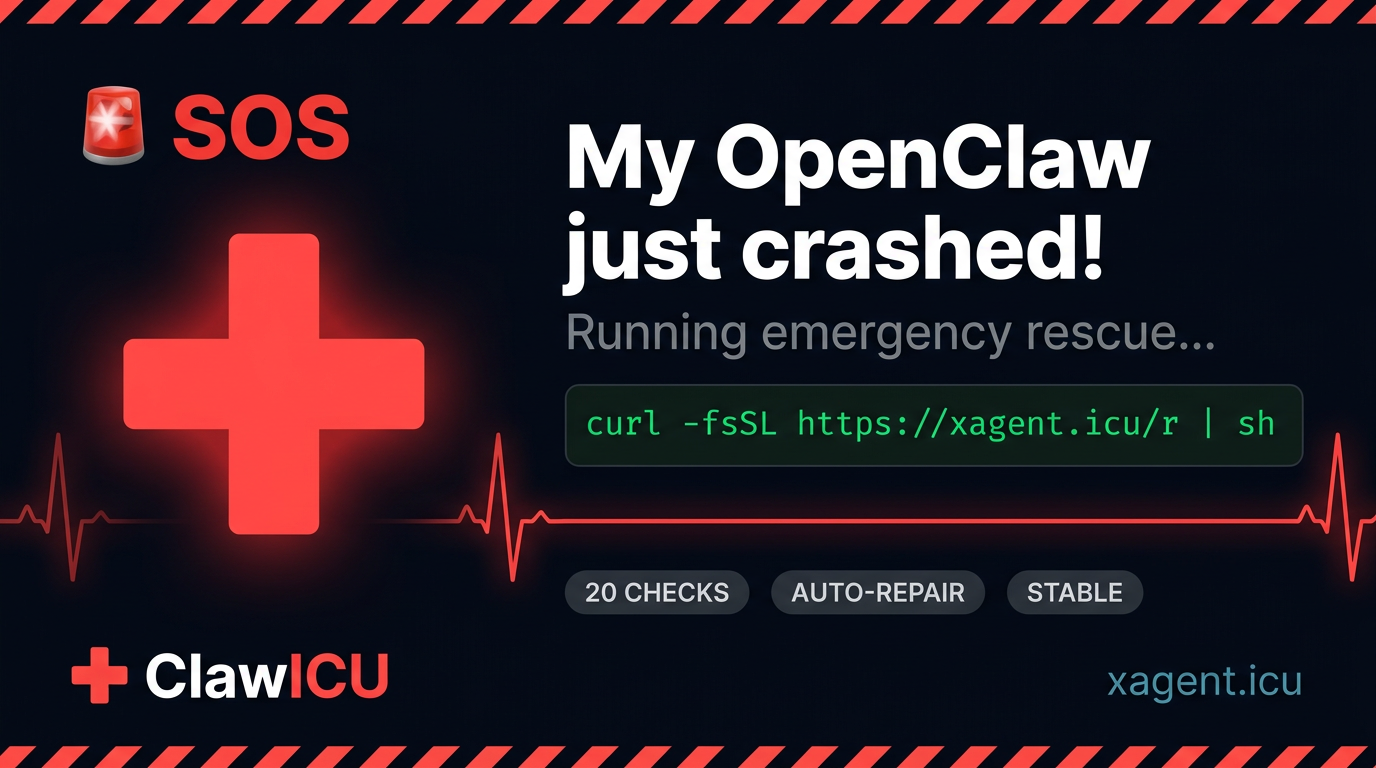
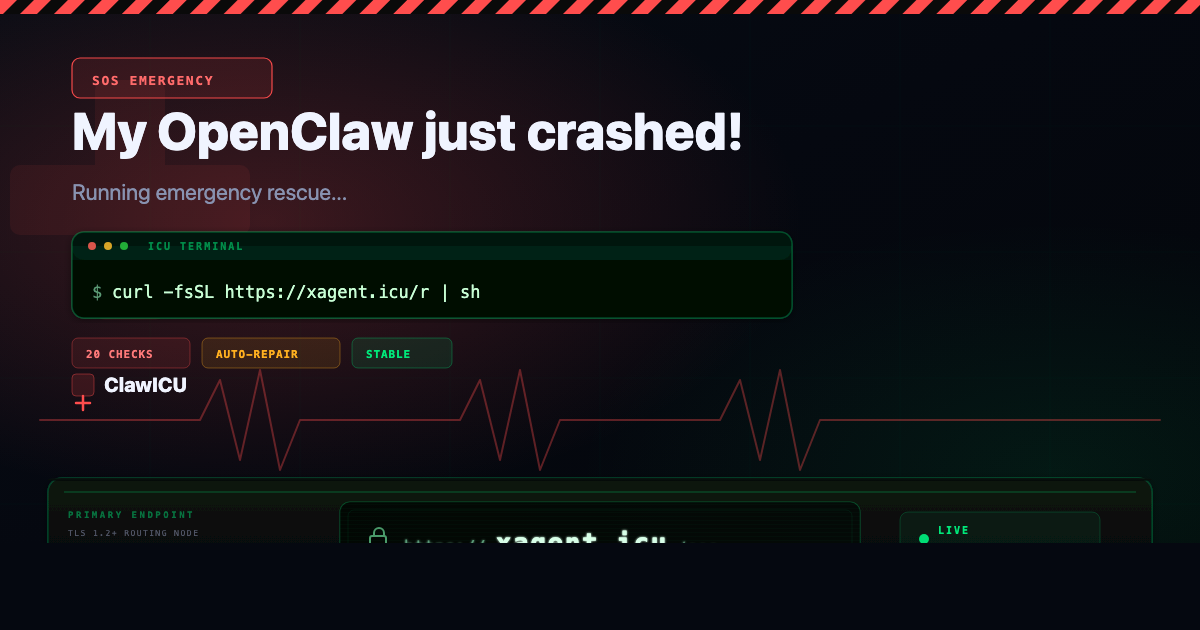
fix(share): redesign SOS card URL strip to match ICU terminal style
- Add public/sos-card.svg as source art: endpoint bar with PRIMARY ENDPOINT label, TLS routing sublabel, phosphor readout bezel (https:// + xagent.icu + /sos), lock icon, LIVE card preview panel
- Regenerate sos-card.png at exact 1200x630 via headless Chrome + sos-card-render.html wrapper
- Add npm run build:share-card (scripts/capture-sos-card.sh) for regenerating PNG after SVG edits
- ShareSOSButton tweet preview link card matches the same URL strip treatment

Made-with: Cursor

diff --git a/src/components/ShareSOSButton.tsx b/src/components/ShareSOSButton.tsx
@@ -107,22 +107,33 @@ export function ShareSOSButton({ compact = false }: { compact?: boolean }) {
                   {TWEET_TEXT}
                 </p>
 
-                {/* Link card preview */}
-                <div className="mt-3 overflow-hidden rounded-xl border border-border/50">
-                  <div
-                    className="flex h-20 items-center justify-center text-xs text-muted-foreground"
-                    style={{
-                      background: "repeating-linear-gradient(45deg, rgba(255,77,77,0.08) 0px, rgba(255,77,77,0.08) 4px, transparent 4px, transparent 16px)",
-                    }}
-                  >
-                    <div className="text-center">
-                      <div className="font-mono font-bold text-primary text-sm">🚨 SOS</div>
-                      <div className="text-[11px] mt-1">xagent.icu/sos</div>
-                    </div>
+                {/* Link card preview — matches SOS share card URL strip */}
+                <div className="mt-3 overflow-hidden rounded-xl border border-[rgba(0,232,122,0.22)] bg-[#040807]">
+                  <div className="border-b border-[rgba(0,232,122,0.2)] px-3 py-1.5">
+                    <span className="font-mono text-[9px] font-bold uppercase tracking-[0.2em] text-[rgba(0,232,122,0.45)]">
+                      Primary endpoint
+                    </span>
                   </div>
-                  <div className="border-t border-border/40 px-3 py-2">
-                    <div className="text-xs font-semibold text-foreground">My OpenClaw just crashed!</div>
-                    <div className="text-[11px] text-muted-foreground mt-0.5">xagent.icu</div>
+                  <div className="relative px-3 py-3">
+                    <div
+                      className="rounded-lg border border-[rgba(0,232,122,0.25)] px-3 py-2"
+                      style={{
+                        background: "linear-gradient(90deg, #061208 0%, #0a1812 100%)",
+                      }}
+                    >
+                      <p className="font-mono text-[13px] leading-snug">
+                        <span className="text-[#5a9a78]">https://</span>
+                        <span className="font-semibold text-[#d8ffe8]">xagent.icu</span>
+                        <span className="text-[#4a7a62]">/sos</span>
+                      </p>
+                    </div>
+                    <div className="mt-2 flex items-center justify-between gap-2">
+                      <span className="text-xs font-semibold text-foreground">My OpenClaw just crashed!</span>
+                      <span className="flex items-center gap-1 font-mono text-[9px] font-bold uppercase tracking-wider text-[#00e87a]">
+                        <span className="h-1.5 w-1.5 rounded-full bg-[#00e87a]" />
+                        Live
+                      </span>
+                    </div>
                   </div>
                 </div>
               </div>

diff --git a/public/sos-card-render.html b/public/sos-card-render.html
@@ -1,0 +1,13 @@
+<!DOCTYPE html>
+<html lang="en">
+<head>
+  <meta charset="utf-8" />
+  <style>
+    html, body { margin: 0; padding: 0; width: 1200px; height: 630px; overflow: hidden; background: #050810; }
+    img { display: block; width: 1200px; height: 630px; }
+  </style>
+</head>
+<body>
+  <img src="./sos-card.svg" width="1200" height="630" alt="" />
+</body>
+</html>
